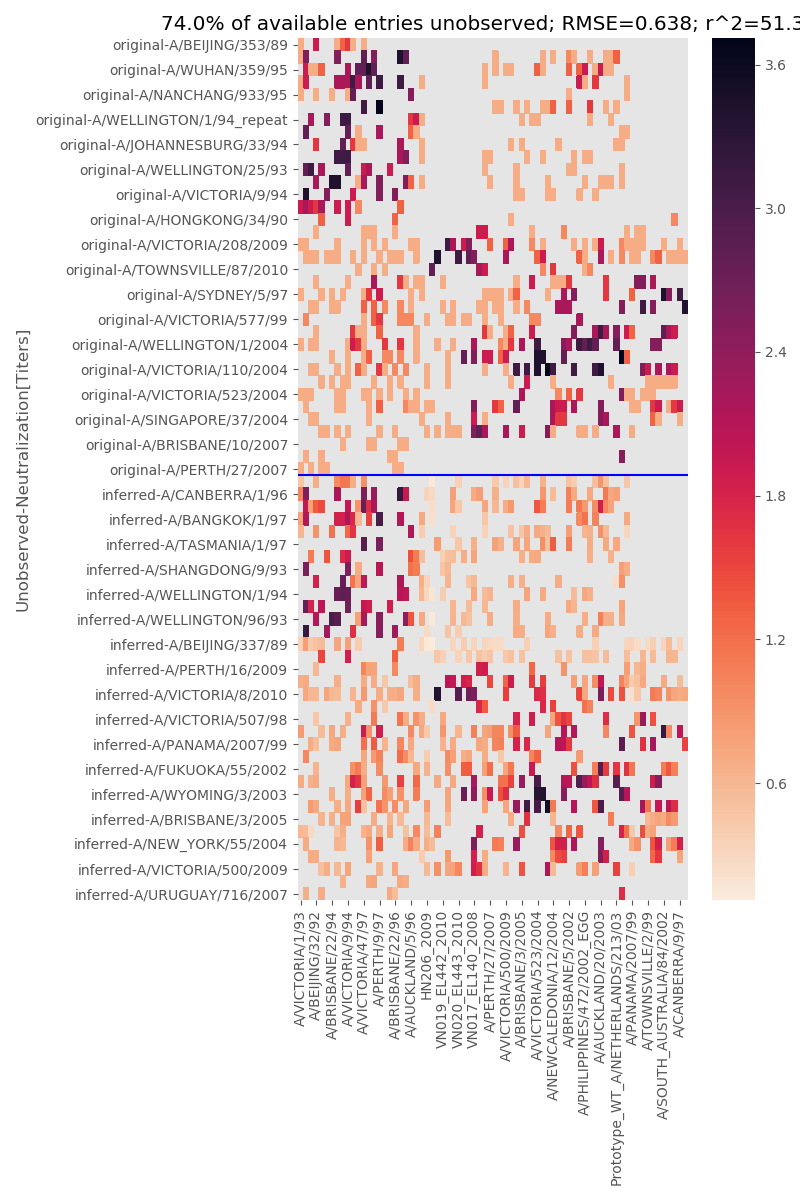
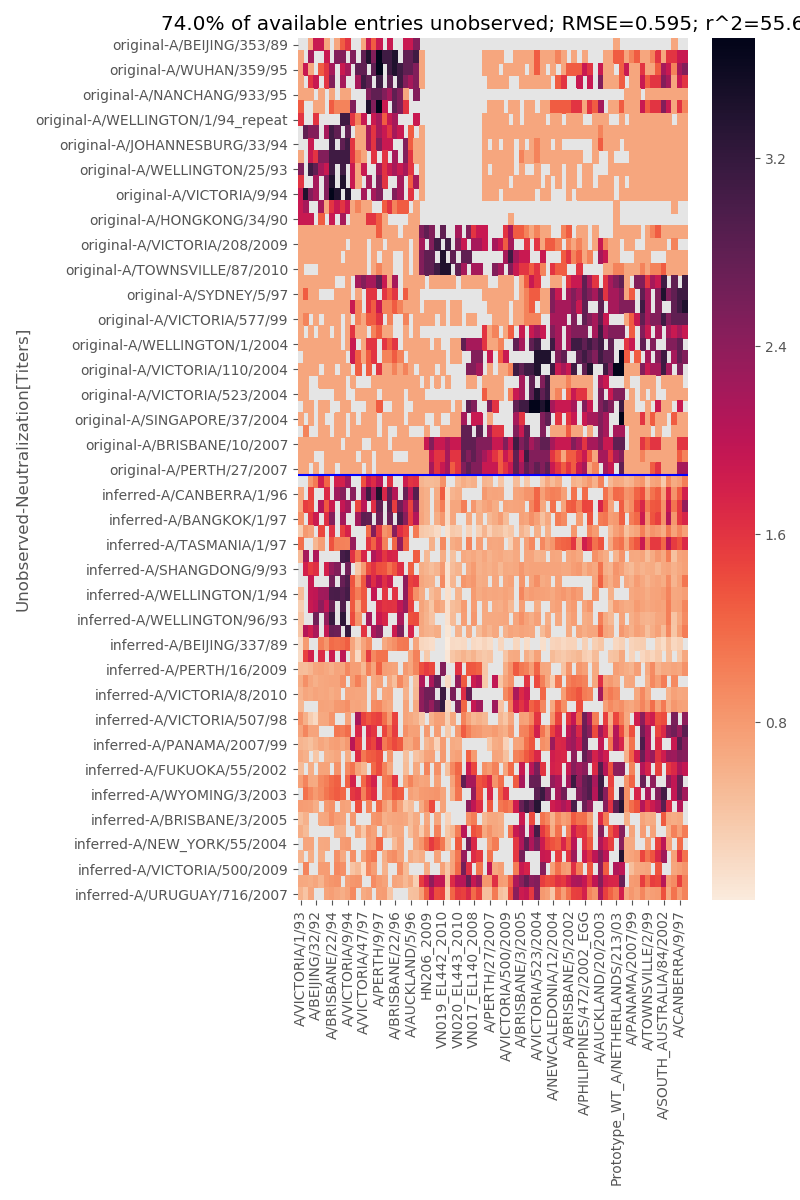
fixing heatmap to display unobserved (predicted) entries

Changed region(s): [[0.375, 0.0, 0.875, 0.7708], [0.9688, 0.0, 1.0, 0.0308]]

diff --git a/matrix_completion_analysis.py b/matrix_completion_analysis.py
@@ -93,7 +93,7 @@ def plot_heatmap(X,obs_frac,filename,combined_datasets=False):
 	df_mask = np.vstack([mask,mask])
 	fig, ax = plt.subplots(figsize=(8,12))
 	_=plt.title('%.1f%% of available entries unobserved; RMSE=%.3f; r^2=%.1f%%' % (100 - np.average(mask)*100, rmse, r2*100))
-	ax=sns.heatmap(df,mask=1-df_mask,ax=ax,cmap=sns.cm.rocket_r)
+	ax=sns.heatmap(df,mask=df_mask,ax=ax,cmap=sns.cm.rocket_r)
 	_=ax.axhline(X.shape[0],color='blue')
 	_=plt.tight_layout()
 	bottom, top = ax.get_ylim()
